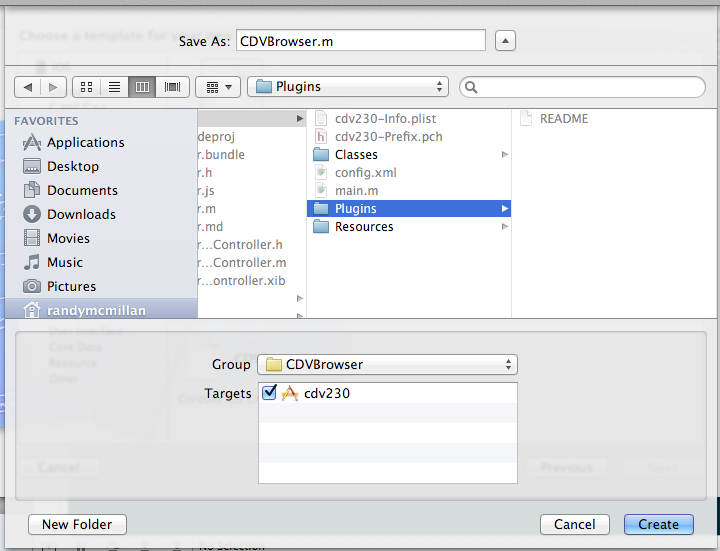
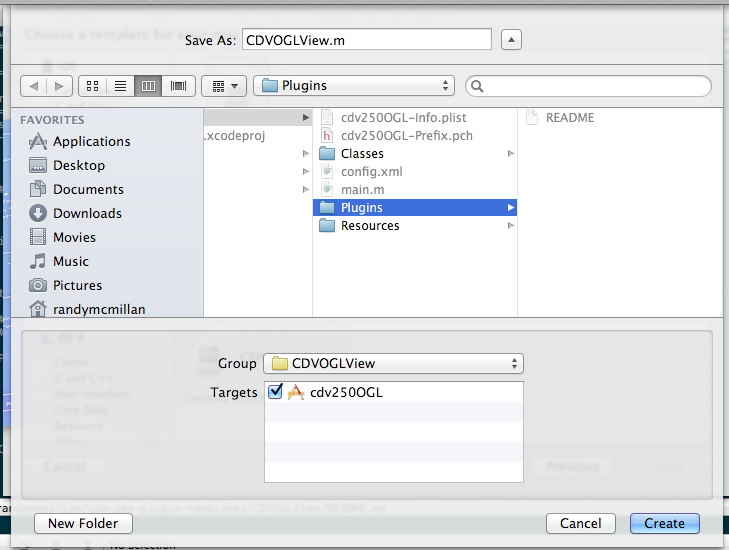
change screenshots

diff --git a/README.md b/README.md
@@ -1,10 +1,11 @@
 CDVOGLView
 ==========
-=======
-CDVBrowser
+
 ===
 
 Cordova (iOS) Xcode Plugin Template
+==== 
+Display an OpenGLView in a Cordova iOS app 
 ---
 
 
